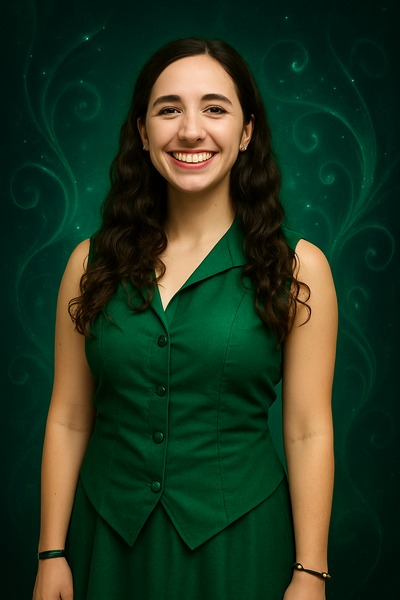
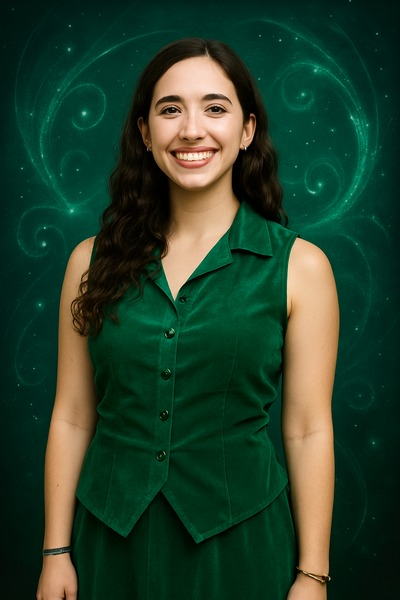
Add Paula Elutchanz (Dorothy) from original photo

diff --git a/index.html b/index.html
@@ -221,6 +221,11 @@
             <h2 class="section-title">Elenco</h2>
             <div class="cast-grid">
                 <div class="cast-member">
+                    <img src="images/elenco/paula-elutchanz.jpg" alt="Paula Elutchanz" loading="lazy">
+                    <h3>Paula Elutchanz</h3>
+                    <p class="member-role">Dorothy</p>
+                </div>
+                <div class="cast-member">
                     <img src="images/elenco/patricia-gomez.jpg" alt="Patricia Gómez" loading="lazy">
                     <h3>Patricia Gómez</h3>
                 </div>

diff --git a/reprocess_all.py b/reprocess_all.py
@@ -1,0 +1,49 @@
+#!/usr/bin/env python3
+"""Reprocess all elenco photos with consistent teal-emerald Oz theme."""
+import openai, base64, io, sys, os
+from PIL import Image
+
+client = openai.OpenAI()
+
+PROMPT = """Transform this portrait photo for a theater musical website. CRITICAL: preserve the person's exact facial features, mouth shape, expression, eye shape, nose, and skin tone from the original photo — do not alter them. Replace the background with a rich dark teal-emerald green background with prominent, luminous swirling magical patterns and sparkles. The green should have a teal/blue-green tone, not pure green. Change their clothing to the same teal-emerald green. Professional theatrical headshot with magical Oz / Emerald City theme. Keep the same pose and framing."""
+
+ISABEL_EXTRA = " Add subtle wardrobe/costume design elements like golden scissors, thread spools, and measuring tape woven into the background swirl patterns."
+
+ELENCO_DIR = "images/elenco"
+
+photos = sorted(os.listdir(ELENCO_DIR))
+photos = [p for p in photos if p.endswith('.jpg') and not p.startswith('.') and 'test' not in p and 'patricia.' not in p]
+
+print(f"Processing {len(photos)} photos...")
+
+for i, filename in enumerate(photos):
+    filepath = os.path.join(ELENCO_DIR, filename)
+    prompt = PROMPT
+    if 'isabel' in filename.lower():
+        prompt += ISABEL_EXTRA
+    
+    print(f"[{i+1}/{len(photos)}] {filename}...", flush=True)
+    
+    try:
+        # Back up current version
+        backup_dir = os.path.join(ELENCO_DIR, "backup")
+        os.makedirs(backup_dir, exist_ok=True)
+        import shutil
+        shutil.copy2(filepath, os.path.join(backup_dir, filename))
+        
+        response = client.images.edit(
+            model="gpt-image-1",
+            image=open(filepath, "rb"),
+            prompt=prompt,
+            size="1024x1536"
+        )
+        
+        img_data = base64.b64decode(response.data[0].b64_json)
+        img = Image.open(io.BytesIO(img_data))
+        img = img.resize((400, 600), Image.LANCZOS)
+        img.save(filepath, 'JPEG', quality=92)
+        print(f"  ✓ Done", flush=True)
+    except Exception as e:
+        print(f"  ✗ Error: {e}", flush=True)
+
+print("All done!")

diff --git a/reprocess_5.py b/reprocess_5.py
@@ -1,0 +1,35 @@
+#!/usr/bin/env python3
+import openai, base64, io, os
+from PIL import Image
+
+client = openai.OpenAI()
+
+PROMPT = """Transform this portrait photo for a theater musical website. CRITICAL: preserve the person's exact facial features, mouth shape, expression, eye shape, nose, and skin tone from the original photo — do not alter them. Replace the background with a rich dark teal-emerald green background with prominent, luminous swirling magical patterns and sparkles. The green should have a teal/blue-green tone, not pure green. Change their clothing to the same teal-emerald green. Professional theatrical headshot with magical Oz / Emerald City theme. Keep the same pose and framing."""
+
+photos = [
+    ("/Users/claw/.openclaw/media/inbound/0856ce58-7381-4098-b5cb-d2008222fd79.jpg", "images/elenco/carola-favier.jpg"),
+    ("/Users/claw/.openclaw/media/inbound/8f056589-7d78-4eae-a3d5-ef44deff38fd.jpg", "images/elenco/paula-elutchanz.jpg"),
+    ("/Users/claw/.openclaw/media/inbound/4de98f62-4075-48be-826e-7c01d61e0302.jpg", "images/elenco/emilia-telesca.jpg"),
+    ("/Users/claw/.openclaw/media/inbound/49d2a792-dc76-4935-a6c5-829b6b592db7.jpg", "images/elenco/diego-de-leon.jpg"),
+    ("/Users/claw/.openclaw/media/inbound/6a04150d-3710-4b34-8969-78cb0b312408.jpg", "images/elenco/jess-demestoy.jpg"),
+]
+
+for i, (src, dst) in enumerate(photos):
+    name = os.path.basename(dst)
+    print(f"[{i+1}/5] {name}...", flush=True)
+    try:
+        response = client.images.edit(
+            model="gpt-image-1",
+            image=open(src, "rb"),
+            prompt=PROMPT,
+            size="1024x1536"
+        )
+        img_data = base64.b64decode(response.data[0].b64_json)
+        img = Image.open(io.BytesIO(img_data))
+        img = img.resize((400, 600), Image.LANCZOS)
+        img.save(dst, 'JPEG', quality=92)
+        print(f"  ✓ Done", flush=True)
+    except Exception as e:
+        print(f"  ✗ Error: {e}", flush=True)
+
+print("All done!")
